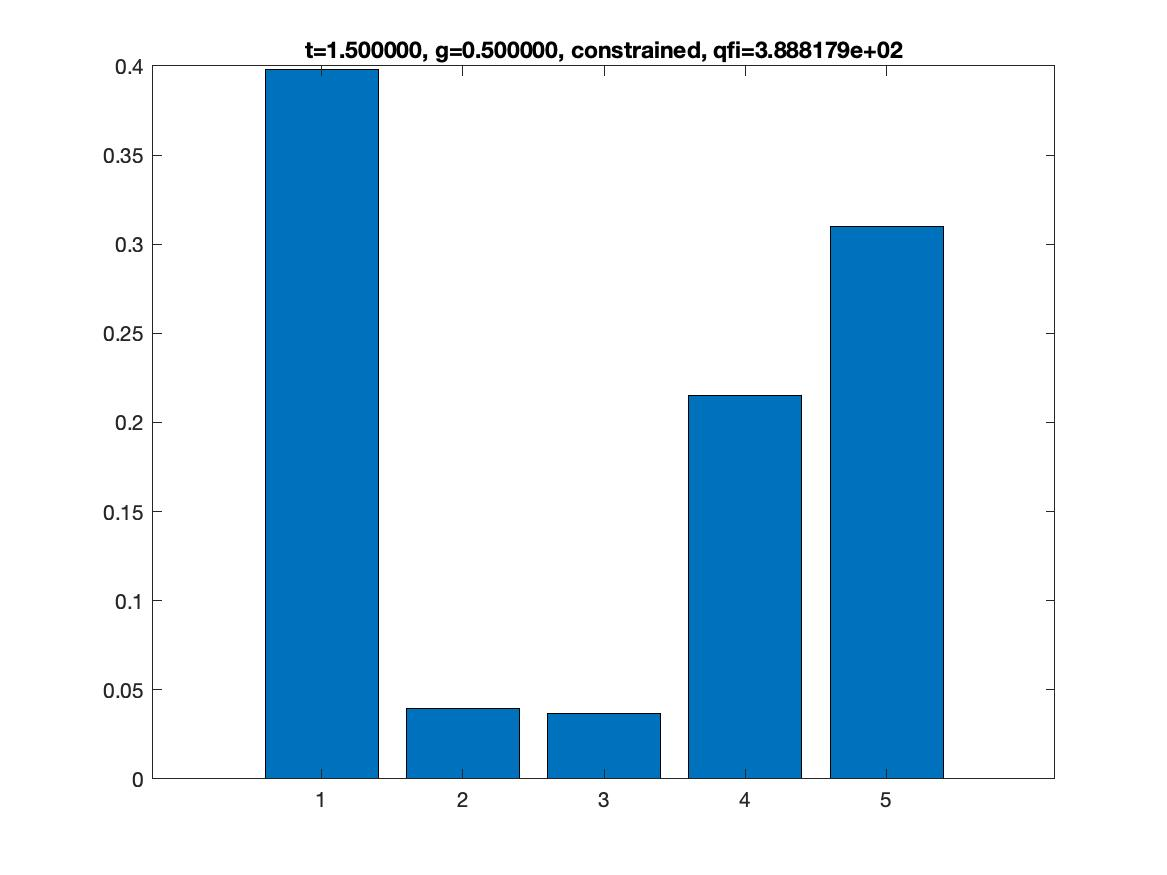
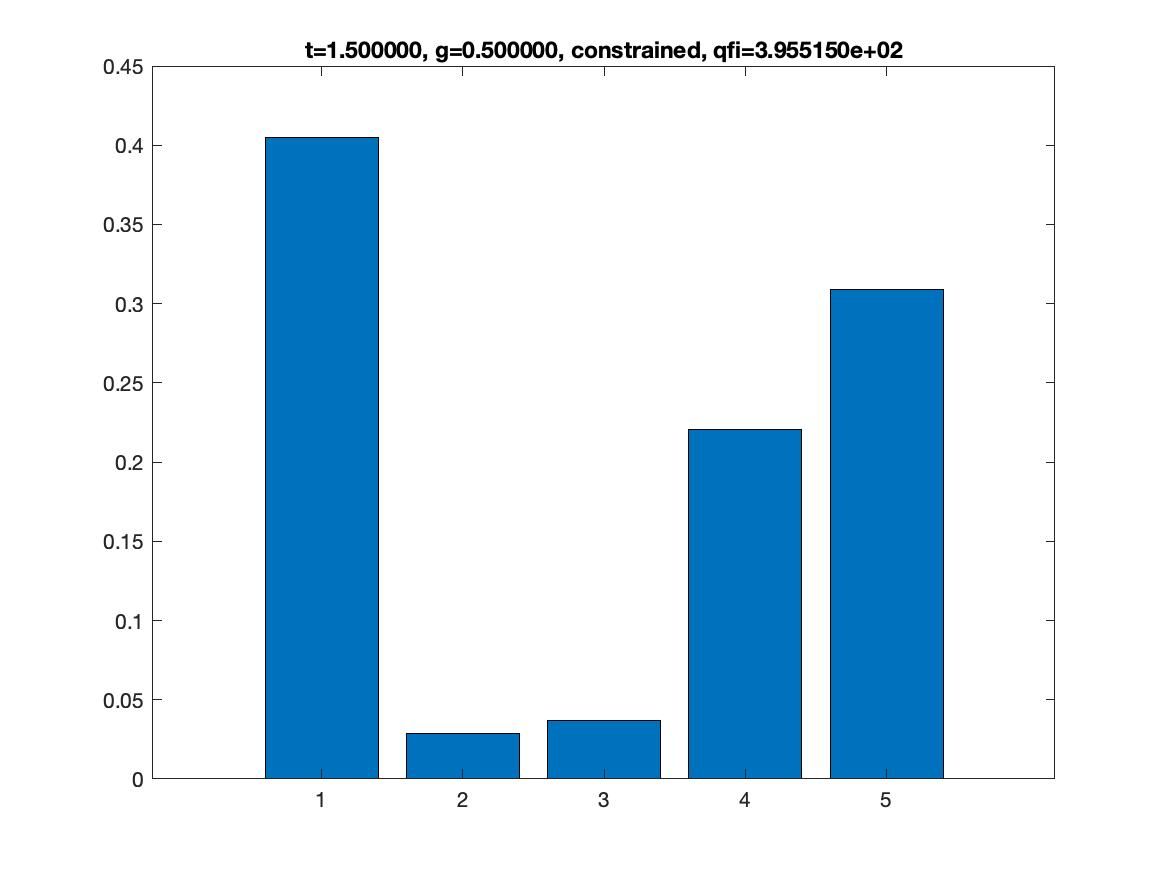
changed state to state5Constrained

diff --git a/Matlab/modified_algorithm.m b/Matlab/modified_algorithm.m
@@ -27,10 +27,10 @@ omegaM = 0.3;
 omega0 = 10;
 f = 0.001;
 maxSteps = 100;
-accuracy = 10;
+accuracy = 1;
 
 % Select state to generate QFI(t) and coefficients(t) for.
-initialState = state15Constr;
+initialState = state5Constr;
 
 % Set on/off to view/hide figs with coefficient charts (every 0.25 t unit)
 chartsVisibility = 'on';
@@ -55,7 +55,7 @@ if ~exist('f', 'dir')
    mkdir(fn);
 end
     
-time = 1:0.05:3; 
+time = 1:0.05:5; 
 g_list = [0.01, 0.04, 0.08, 0.15, 0.3, 0.5]; % coupling constant
 qfi_values = zeros(length(g_list), length(time));
 

diff --git a/Matlab/calculateOptimalQFI.m b/Matlab/calculateOptimalQFI.m
@@ -146,7 +146,7 @@ for step = 1:maxSteps
             title(sprintf('t=%f, g=%f, constrained, qfi=%d', t, g, qfi));
             name = sprintf(['\\figures\\coefficients_dim_%d_g_%03d_t_'...
                 '%d_constrained_nbar.jpg'], ...
-                length(inputState), uint8(g*100), uint8(realT*100));
+                length(inputState), g*100, t*100);
             saveas(fh,[pwd name]);
 %             close(fh);
         end
